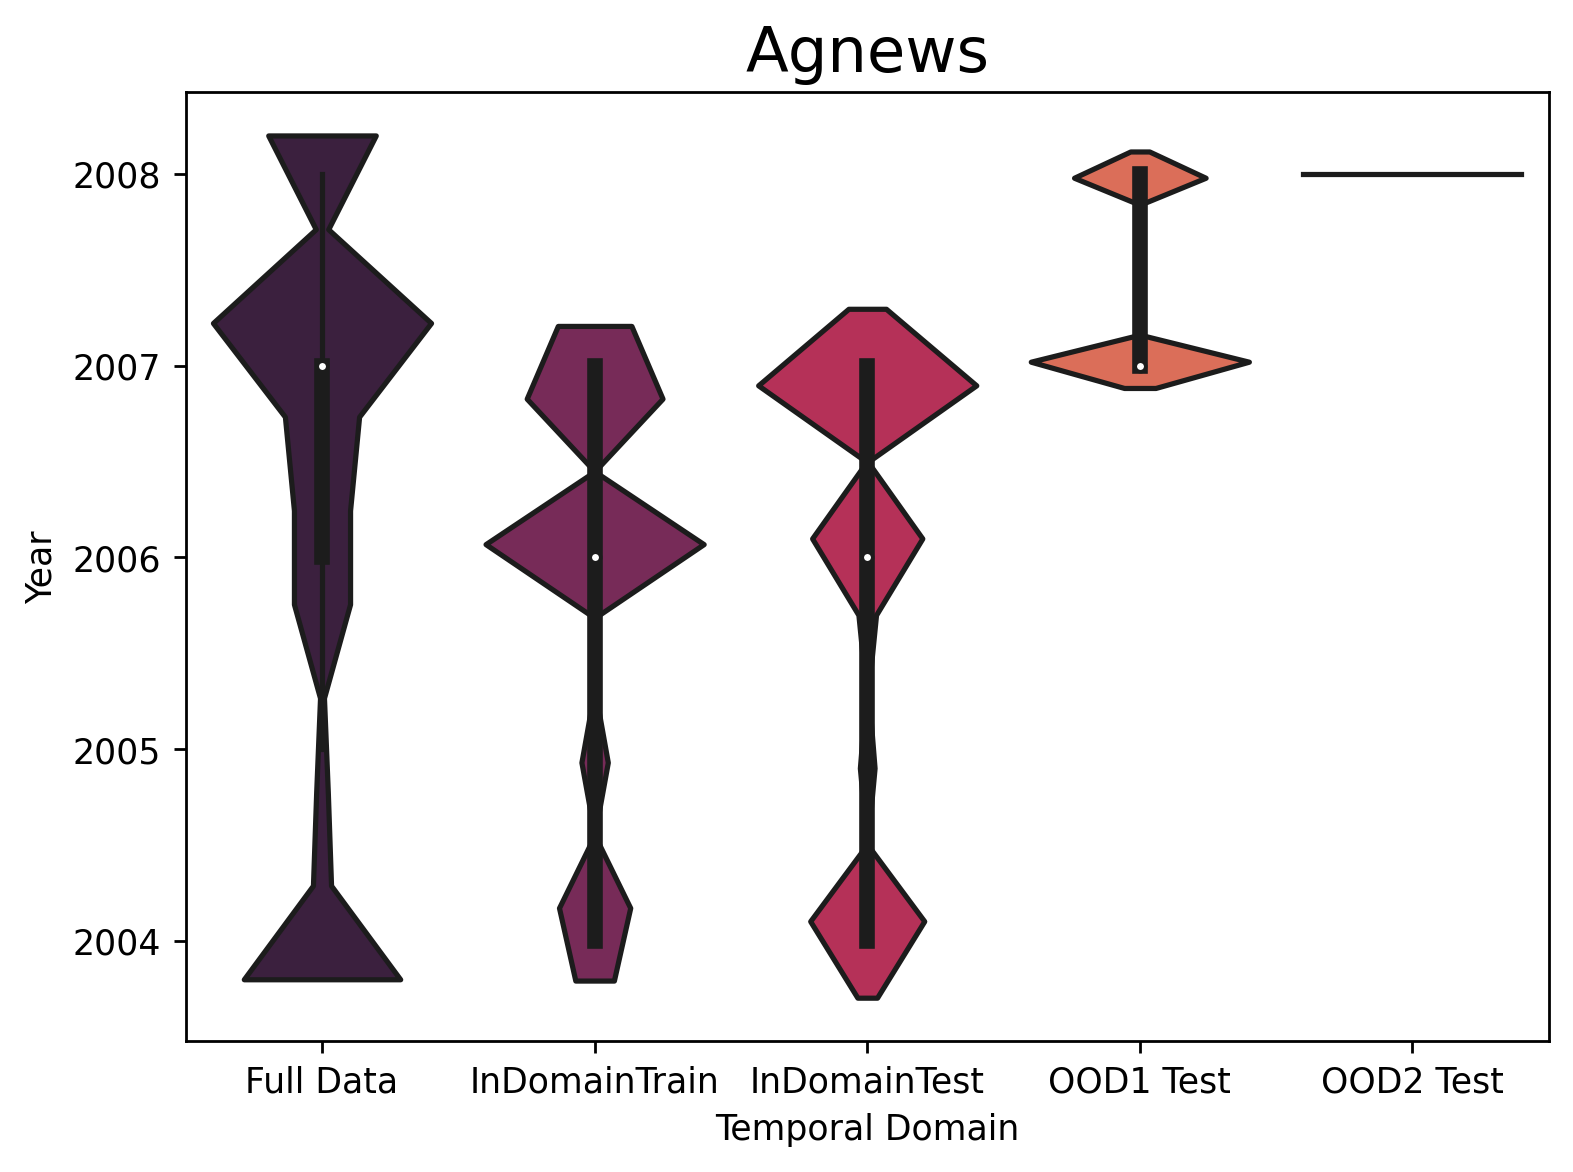
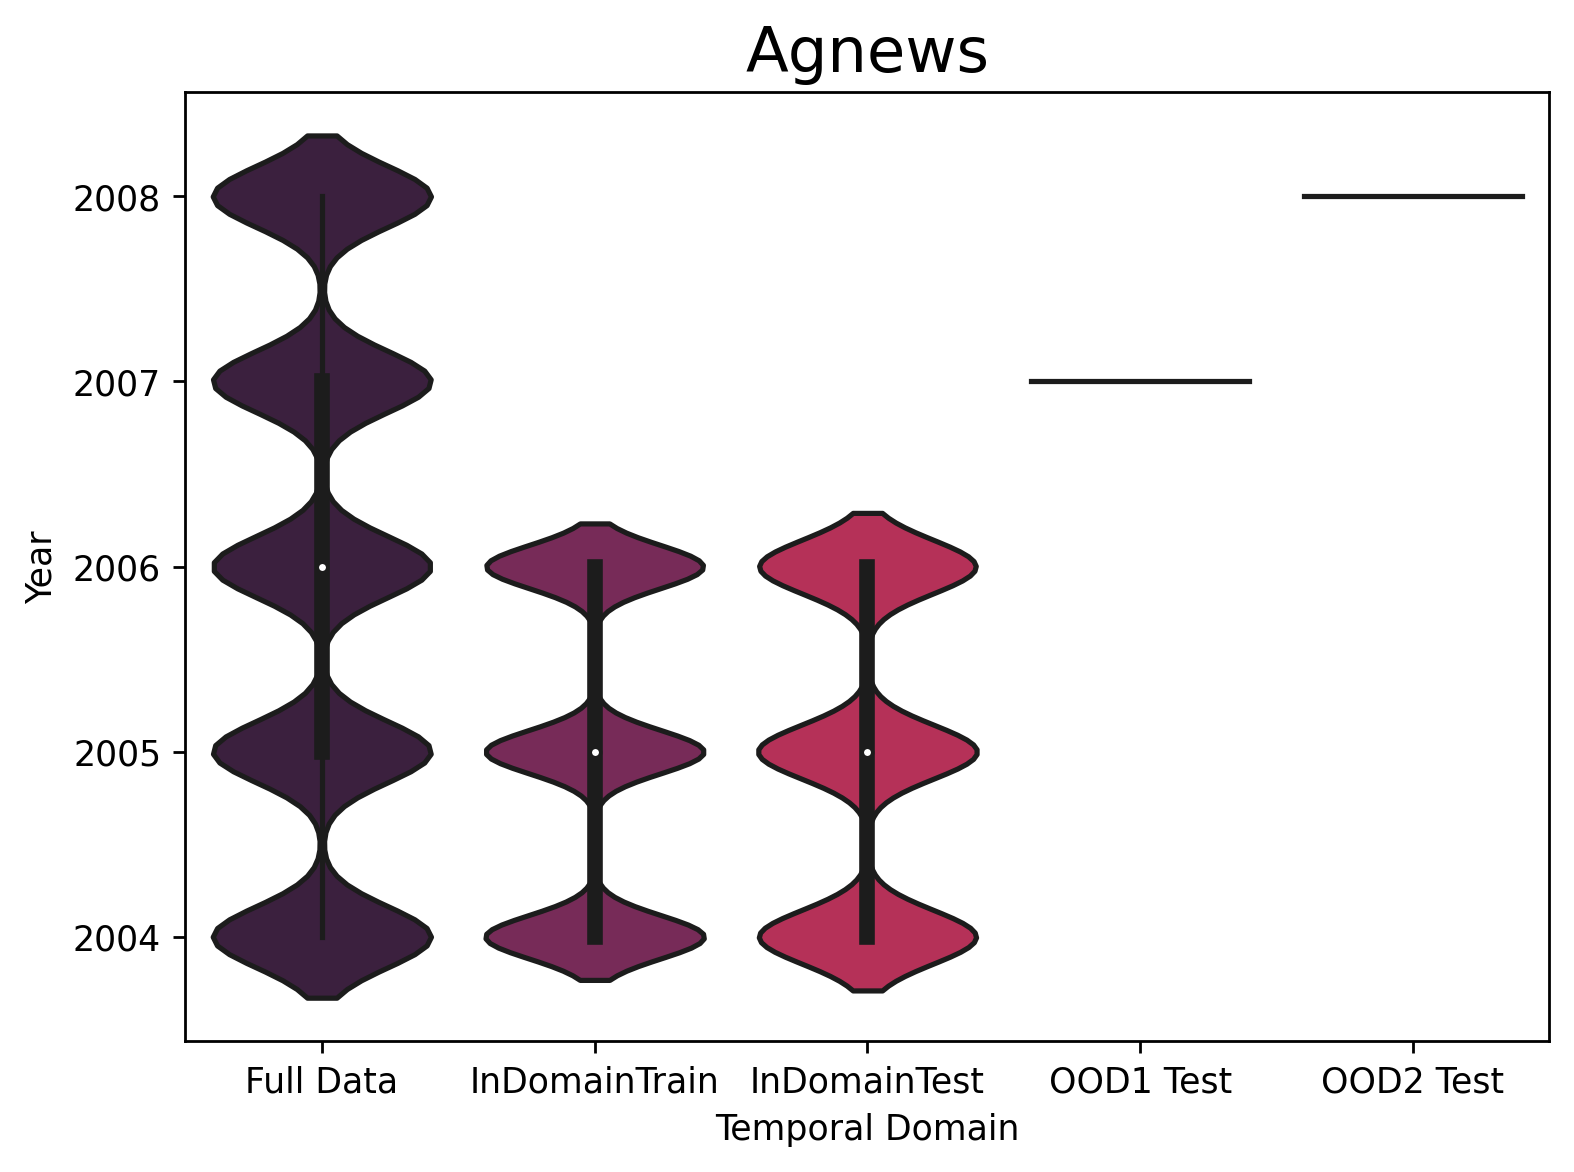
m

diff --git a/save_everything.py b/save_everything.py
@@ -178,7 +178,8 @@ if args.plot_time_distribution:
     palette="rocket",scale='width') #,gridsize=10
     #sns.boxplot(y=df['Year'], x=df['Temporal Domain'], palette="rocket", whis=np.inf)
     #sns.displot(df, x="Year", hue="Temporal Domain", stat="density", common_norm=False)
-    plt.title('Healthfact', fontsize=18)
+
+    plt.title(str(args.dataset).capitalize(), fontsize=18)
     # plt.ylabel("Percentage")
     #plt.xlabel("Full size", "InDomain Train", "InDomain Test", "OOD1 Test", "OOD2 Test")
     #plt.legend(bbox_to_anchor=(1, 1, 0.28, 0.28), loc='best', borderaxespad=1)
